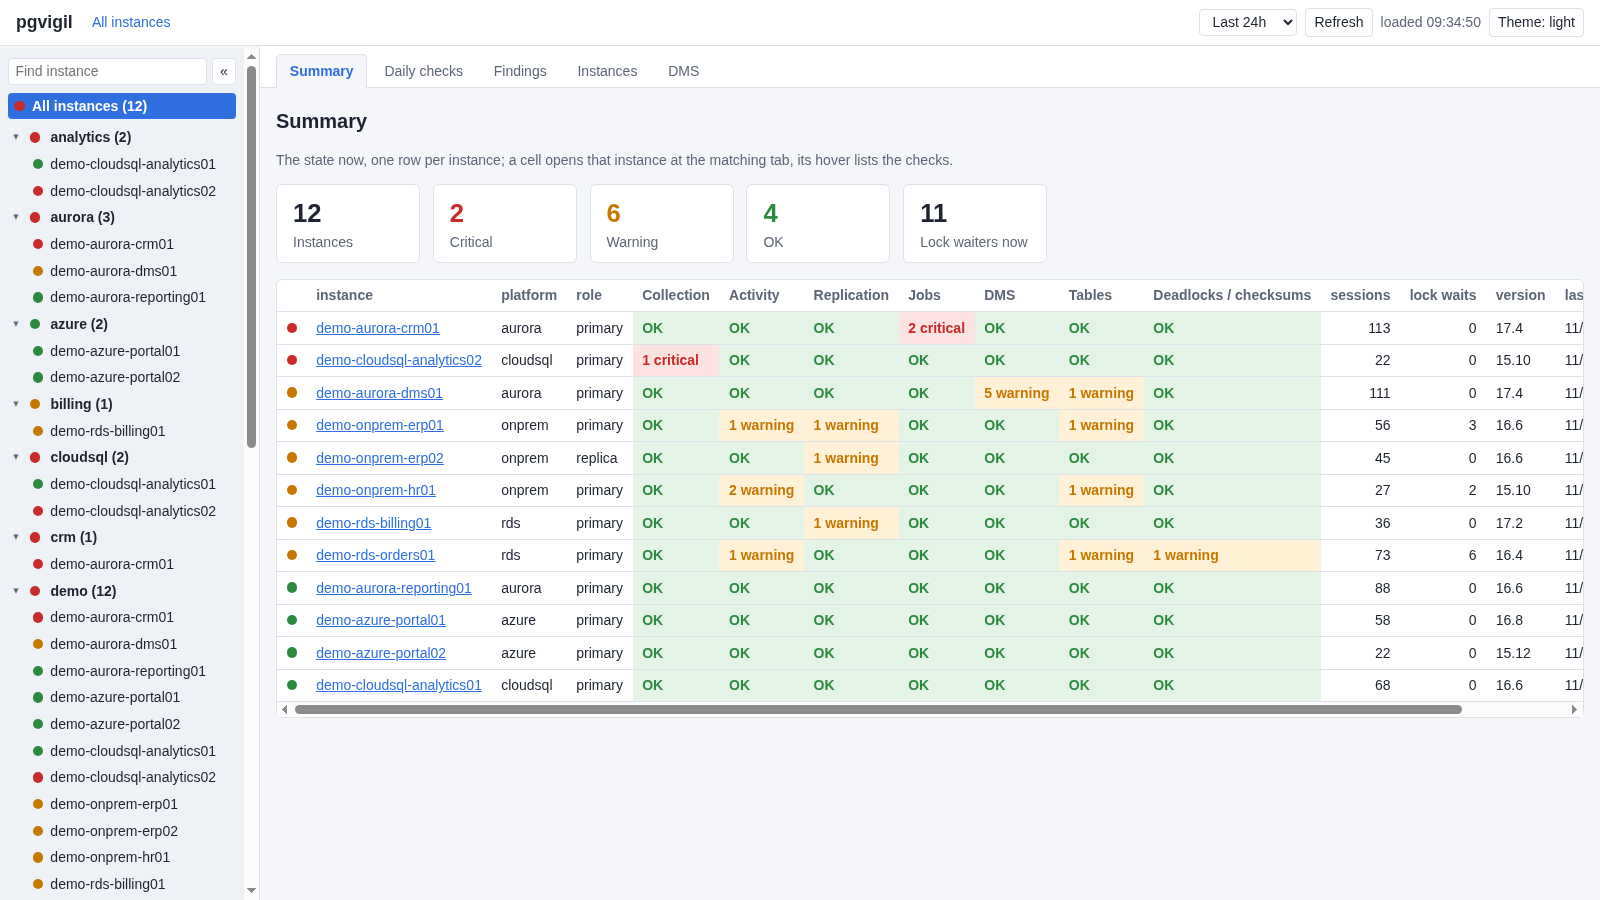
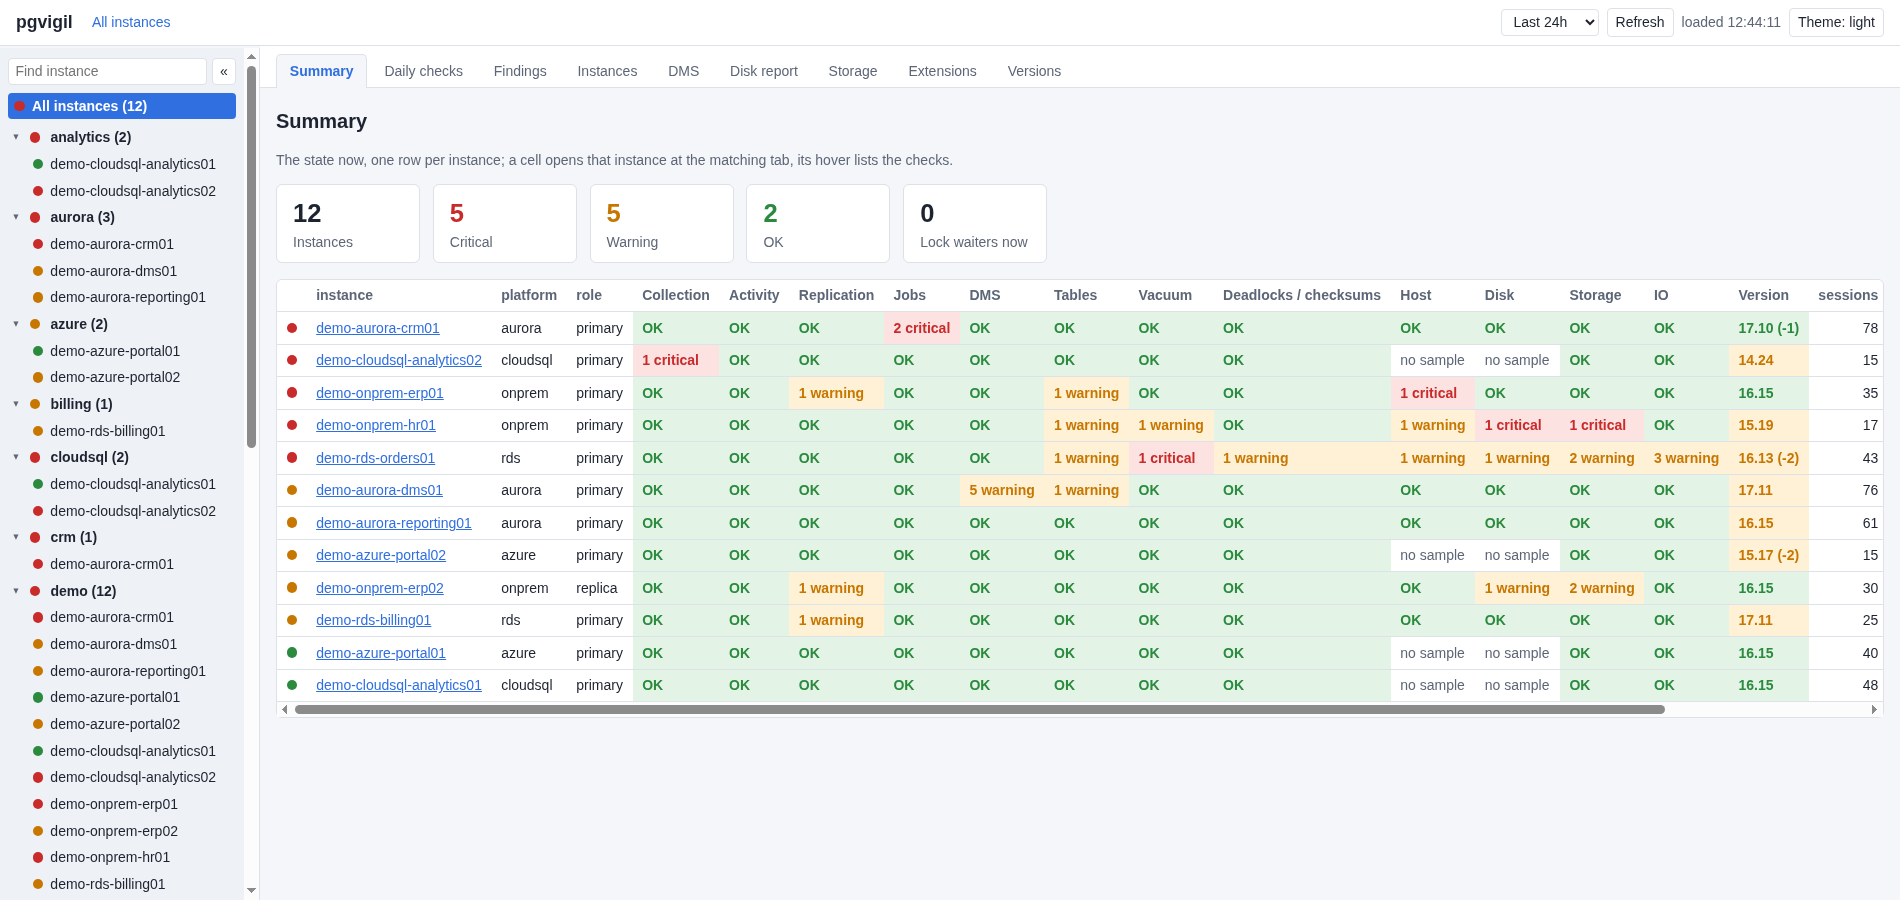
Wave A on the landing page and the README: six collection rows (tables, vacuum, host, storage, extensions, versions, io) and two feature cards (host, disk and storage; vacuum, versions, extensions, IO) on pgvigil.com, the page descriptions widened; the README's Summary screenshot retaken on the wave

diff --git a/docs/index.html b/docs/index.html
@@ -4,10 +4,10 @@
 <meta charset="utf-8">
 <meta name="viewport" content="width=device-width, initial-scale=1">
 <title>pgvigil: open-source PostgreSQL monitoring for DBAs</title>
-<meta name="description" content="pgvigil is an open-source (MIT) PostgreSQL monitoring tool for DBAs: daily checks, running queries and blocking chains, top statements, counters, replication, jobs, logs and DMS tasks, across on-prem PostgreSQL, Amazon RDS and Aurora, Azure Database for PostgreSQL, Google Cloud SQL and AlloyDB.">
+<meta name="description" content="pgvigil is an open-source (MIT) PostgreSQL monitoring tool for DBAs: daily checks, running queries and blocking chains, top statements, counters, replication, jobs, logs, DMS tasks, host and storage with days until full, vacuum, versions against the release table, extensions and storage IO, across on-prem PostgreSQL, Amazon RDS and Aurora, Azure Database for PostgreSQL, Google Cloud SQL and AlloyDB.">
 <link rel="canonical" href="https://pgvigil.com/">
 <meta property="og:title" content="pgvigil: open-source PostgreSQL monitoring for DBAs">
-<meta property="og:description" content="One collector binary, a PostgreSQL repository, a web UI with its own login. Daily checks, blocking chains, top statements, replication, jobs, logs, DMS.">
+<meta property="og:description" content="One collector binary, a PostgreSQL repository, a web UI with its own login. Daily checks, blocking chains, top statements, replication, jobs, logs, DMS, host and storage, vacuum, versions, extensions, IO.">
 <meta property="og:url" content="https://pgvigil.com/">
 <meta property="og:type" content="website">
 <style>
@@ -78,6 +78,8 @@
     <div class="card"><h3>Top statements</h3><p>pg_stat_statements as deltas per interval, with reset detection, so the top statements over any window are real numbers, not cumulative totals.</p></div>
     <div class="card"><h3>Counters and rates</h3><p>pg_stat_database, the background writer, checkpointer, WAL and pg_stat_io as rates over a window, charted.</p></div>
     <div class="card"><h3>Replication, slots, jobs</h3><p>Streaming and logical replication, slots with retained WAL, Aurora replica status, pg_cron and pgAgent job runs and failures.</p></div>
+    <div class="card"><h3>Host, disk and storage</h3><p>CPU, memory, swap and load from the server itself (system_stats on-prem, CloudWatch on RDS and Aurora), every volume with its free space, growth per day and days until full, a fleet Disk report and a Storage view sorted by the soonest full.</p></div>
+    <div class="card"><h3>Vacuum, versions, extensions, IO</h3><p>Running vacuums and the tables autovacuum is behind on, wraparound headroom, every server's version against the PostgreSQL release table with end of life and pending cloud maintenance, outdated extensions, and the storage IO of RDS, Aurora and DMS instances.</p></div>
     <div class="card"><h3>Cloud doors</h3><p>On RDS and Aurora, the PostgreSQL log from CloudWatch Logs (slow statements, lock waits, deadlocks, failed logins) and AWS DMS tasks with their table statistics and CDC latency.</p></div>
     <div class="card"><h3>Every platform, one query set</h3><p>On-prem PostgreSQL 13 to 18, Amazon RDS and Aurora, Azure Database for PostgreSQL, Google Cloud SQL and AlloyDB. Column names come from the server's own catalog, so one query set serves them all.</p></div>
     <div class="card"><h3>Small and static</h3><p>A single static Go binary for Linux, Windows and macOS, no runtime on the target, about 30 MB of memory while polling fifty instances. The web UI is embedded in the same binary.</p></div>
@@ -98,7 +100,14 @@
     <tr><td>databases</td><td>hourly</td><td>inventory with sizes, transaction id and multixact age</td></tr>
     <tr><td>jobs</td><td>1 min</td><td>pg_cron and pgAgent jobs, run history, failures</td></tr>
     <tr><td>logs</td><td>1 min</td><td>RDS and Aurora: the PostgreSQL log from CloudWatch Logs, slow statements, lock waits, deadlocks, failed logins</td></tr>
-    <tr><td>dms</td><td>1 min</td><td>AWS DMS tasks, table statistics, replication instances, CDC latency and host metrics, read only</td></tr>
+    <tr><td>dms</td><td>1 min</td><td>AWS DMS tasks, table statistics, replication instances, CDC latency, host metrics and the instances' IO, read only</td></tr>
+    <tr><td>tables</td><td>hourly</td><td>the biggest tables per database with dead rows, bloat, vacuum state and the table checks</td></tr>
+    <tr><td>vacuum</td><td>1 min, tables hourly</td><td>vacuums and analyzes running now (a VACUUM waiting on its table lock included), the run history, tables over their autovacuum thresholds for hours, wraparound against the freeze max age, xmin holders</td></tr>
+    <tr><td>host</td><td>1 min</td><td>on-prem through the <code>system_stats</code> extension where installed: OS, CPU, memory, load, every mount, device IO; RDS and Aurora through CloudWatch; the fleet Disk report</td></tr>
+    <tr><td>storage</td><td>15 min</td><td>volumes with growth per day and days until full, the WAL directory, tablespaces, RDS allocated storage with its autoscaling maximum, the Aurora volume against 128 TiB, database and table growth</td></tr>
+    <tr><td>extensions</td><td>hourly</td><td>installed per database against the server's available versions, the preload lists and the extension settings; which servers have which extension</td></tr>
+    <tr><td>versions</td><td>hourly</td><td>the server version against a built-in PostgreSQL release table (minors behind, end of life), the last restart and version changes, RDS and Aurora upgrade targets and pending maintenance, collation versions</td></tr>
+    <tr><td>io</td><td>5 min</td><td>RDS and Aurora storage IO from CloudWatch: IOPS, latency, throughput, queue depth, burst balance; the DMS replication instances' IO</td></tr>
   </table></div>
 </div></section>
 

diff --git a/README.md b/README.md
@@ -8,7 +8,7 @@ Status: phase 1, under construction. The collector, the repository, the collecti
 
 ## Screenshots
 
-The demo fleet (`pgvigil demo`): the Summary grid, one row per instance and a coloured cell per check group; an instance's running queries with the blocking chain to its head; the DMS tab with the drain readout.
+The demo fleet (`pgvigil demo`): the Summary grid, one row per instance and a coloured cell per check group (collection, activity, replication, jobs, DMS, tables, vacuum, deadlocks and checksums, host, disk, storage, IO, and the version against the release table); an instance's running queries with the blocking chain to its head; the DMS tab with the drain readout.
 
 ![Summary grid](docs/img/summary.png)
 
